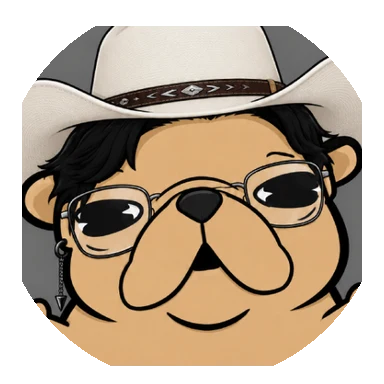
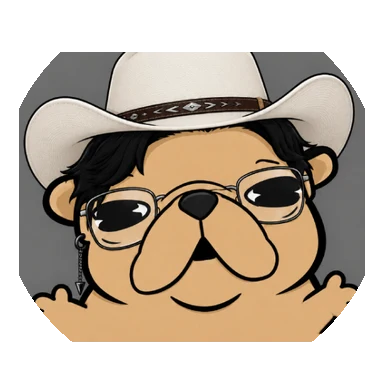
Release Xomacito 3.5 and restore tray launches

diff --git a/src/ui/qml/Main.qml b/src/ui/qml/Main.qml
@@ -54,7 +54,7 @@ ApplicationWindow {
             return
         if (updatePopup.opened || noticePopup.opened || platinumPopup.opened
                 || smoothMotionPopup.opened || pendingSmoothMotionPromo
-                || smoothMotionDelay.running)
+                || smoothMotionDelay.running || catGachaPage.revealOpen)
             return
         socialOnboardingDelay.restart()
     }
@@ -296,7 +296,13 @@ ApplicationWindow {
                 Item { DownloadPage { anchors.fill: parent } }
                 Item { QueuePage { anchors.fill: parent } }
                 Item { ImageStudioPage { anchors.fill: parent } }
-                Item { CatGachaPage { anchors.fill: parent } }
+                Item {
+                    CatGachaPage {
+                        id: catGachaPage
+                        anchors.fill: parent
+                        onRevealFinished: window.tryOpenSocialOnboarding()
+                    }
+                }
                 Item { ScoreboardPage { anchors.fill: parent; onConnectRequested: socialOnboardingPopup.open() } }
                 Item { SettingsPage { anchors.fill: parent } }
 
@@ -858,7 +864,7 @@ ApplicationWindow {
         onTriggered: {
             if (updatePopup.opened || noticePopup.opened || platinumPopup.opened
                     || smoothMotionPopup.opened || window.pendingSmoothMotionPromo
-                    || smoothMotionDelay.running)
+                    || smoothMotionDelay.running || catGachaPage.revealOpen)
                 return
             window.pendingSocialOnboarding = false
             socialOnboardingPopup.open()
@@ -1022,9 +1028,10 @@ ApplicationWindow {
         id: socialOnboardingPopup
         objectName: "socialOnboardingPopup"
         anchors.centerIn: parent
-        width: Math.min(580, window.width - 48)
-        implicitHeight: socialOnboardingContent.implicitHeight + 52
+        width: Math.min(560, window.width - 40)
+        height: Math.min(window.denseWindow ? 400 : 420, window.height - 36)
         modal: true; focus: true; padding: 0
+        clip: true
         closePolicy: Popup.NoAutoClose
         property bool createMode: true
         background: Rectangle {
@@ -1043,33 +1050,96 @@ ApplicationWindow {
         }
         contentItem: ColumnLayout {
             id: socialOnboardingContent
-            x: 26; y: 26; width: socialOnboardingPopup.width - 52; spacing: 15
-            Text { text: "TU ID DE XOMACITO"; color: theme.colors.primary; font.pixelSize: 10; font.weight: Font.Bold; font.letterSpacing: 1.2 }
-            Text { Layout.fillWidth: true; text: socialOnboardingPopup.createMode ? "Entra al scoreboard" : "Volver a tu cuenta"; color: theme.colors.text; font.pixelSize: 23; font.weight: Font.DemiBold; wrapMode: Text.WordWrap }
-            Text { Layout.fillWidth: true; text: "Tu contraseña viaja directamente a Supabase Auth y nunca se guarda en este equipo."; color: theme.colors.textMuted; font.pixelSize: 11; wrapMode: Text.WordWrap }
-            XTextField { id: socialUsername; Layout.fillWidth: true; placeholderText: "ID pública (ej. strike2911)"; enabled: !socialController.state.busy }
-            XTextField { id: socialPassword; Layout.fillWidth: true; placeholderText: "Contraseña (mínimo 8 caracteres)"; echoMode: TextInput.Password; enabled: !socialController.state.busy }
-            Text { Layout.fillWidth: true; visible: socialController.state.error.length > 0; text: socialController.state.error; color: theme.colors.error; font.pixelSize: 11; wrapMode: Text.WordWrap }
-            RowLayout {
+            objectName: "socialOnboardingContent"
+            anchors.fill: parent
+            anchors.margins: window.denseWindow ? 20 : 26
+            spacing: window.denseWindow ? 10 : 12
+
+            Text {
+                text: "TU ID DE XOMACITO"
+                color: theme.colors.primary
+                font.pixelSize: 10
+                font.weight: Font.Bold
+                font.letterSpacing: 1.2
+            }
+            Text {
+                objectName: "socialOnboardingTitle"
                 Layout.fillWidth: true
-                Layout.topMargin: 3
-                spacing: 10
+                text: socialOnboardingPopup.createMode ? "Entra al scoreboard" : "Volver a tu cuenta"
+                color: theme.colors.text
+                font.pixelSize: window.denseWindow ? 21 : 23
+                font.weight: Font.DemiBold
+                wrapMode: Text.WordWrap
+            }
+
+            Rectangle {
+                Layout.fillWidth: true
+                Layout.preferredHeight: window.denseWindow ? 50 : 54
+                radius: 12
+                color: theme.colors.surfaceSoft
+                border.width: 1
+                border.color: theme.colors.border
+                Text {
+                    objectName: "socialOnboardingPrivacy"
+                    anchors.fill: parent
+                    anchors.margins: 11
+                    text: "CUENTA SEGURA  ·  Tu contraseña se envía a Supabase Auth y no se guarda en este equipo."
+                    color: theme.colors.textMuted
+                    font.pixelSize: 10
+                    font.weight: Font.Medium
+                    wrapMode: Text.WordWrap
+                    verticalAlignment: Text.AlignVCenter
+                }
+            }
+
+            XTextField {
+                id: socialUsername
+                objectName: "socialUsernameField"
+                Layout.fillWidth: true
+                Layout.preferredHeight: 46
+                placeholderText: "ID pública (ej. strike2911)"
+                enabled: !socialController.state.busy
+            }
+            XTextField {
+                id: socialPassword
+                objectName: "socialPasswordField"
+                Layout.fillWidth: true
+                Layout.preferredHeight: 46
+                placeholderText: "Contraseña (mínimo 8 caracteres)"
+                echoMode: TextInput.Password
+                enabled: !socialController.state.busy
+            }
+            Text {
+                Layout.fillWidth: true
+                Layout.preferredHeight: visible ? implicitHeight : 0
+                visible: socialController.state.error.length > 0
+                text: socialController.state.error
+                color: theme.colors.error
+                font.pixelSize: 10
+                wrapMode: Text.WordWrap
+                maximumLineCount: 2
+                elide: Text.ElideRight
+            }
+            Item { Layout.fillHeight: true }
+            RowLayout {
+                objectName: "socialOnboardingActions"
+                Layout.fillWidth: true
+                spacing: 8
                 XButton {
-                    Layout.preferredWidth: 132
+                    Layout.fillWidth: true
                     text: socialOnboardingPopup.createMode ? "Ya tengo ID" : "Crear una ID"
                     kind: "ghost"
                     onClicked: socialOnboardingPopup.createMode = !socialOnboardingPopup.createMode
                 }
-                Item { Layout.fillWidth: true }
                 XButton {
-                    Layout.preferredWidth: 112
+                    Layout.fillWidth: true
                     text: "Ahora no"
                     kind: "secondary"
                     enabled: !socialController.state.busy
                     onClicked: { socialController.dismissOnboarding(); socialOnboardingPopup.close() }
                 }
                 XButton {
-                    Layout.preferredWidth: 122
+                    Layout.fillWidth: true
                     text: socialController.state.busy ? "Conectando…" : socialOnboardingPopup.createMode ? "Crear ID" : "Entrar"
                     enabled: !socialController.state.busy && socialUsername.text.length >= 3 && socialPassword.text.length >= 8
                     onClicked: {

diff --git a/src/ui/qml/pages/CatGachaPage.qml b/src/ui/qml/pages/CatGachaPage.qml
@@ -6,6 +6,8 @@ import "../components"
 Item {
     id: root
     property bool dense: height <= 520
+    readonly property bool revealOpen: revealPopup.opened
+    signal revealFinished()
 
     ColumnLayout {
         anchors.fill: parent
@@ -258,6 +260,7 @@ Item {
         focus: true
         padding: 0
         closePolicy: Popup.NoAutoClose
+        onClosed: root.revealFinished()
         property var result: ({})
         property real revealProgress: 1
         readonly property int resultRarity: Math.max(1, Math.min(6, Number(result.rarity || 1)))

diff --git a/src/ui/qml/components/CatAvatar.qml b/src/ui/qml/components/CatAvatar.qml
@@ -78,7 +78,7 @@ Item {
             anchors.fill: parent
             anchors.margins: root.blackbullNoir ? 1 : 3
             source: root.source
-            fillMode: root.blackbullNoir ? Image.PreserveAspectCrop : Image.PreserveAspectFit
+            fillMode: Image.PreserveAspectFit
             mipmap: true
             smooth: true
             sourceSize.width: Math.max(128, width * 2)

diff --git a/tests/test_core.py b/tests/test_core.py
@@ -290,6 +290,17 @@ class XomacitoWrapperTests(unittest.TestCase):
         self.assertIn("PODIO", highlights)
         self.assertTrue(notice["smoothMotionPromotion"])
 
+    def test_release_35_is_the_papu_update(self):
+        notice = release_notice_for_version("v3.5")
+
+        self.assertIsNotNone(notice)
+        self.assertEqual(notice["title"], "Xomacito 3.5")
+        self.assertEqual(notice["subtitle"], "¡THE PAPU UPDATE!!")
+        highlights = " ".join(notice["highlights"]).upper()
+        self.assertIn("FORMULARIO DE ID", highlights)
+        self.assertIn("BLACK BULL", highlights)
+        self.assertTrue(notice["smoothMotionPromotion"])
+
     def test_app_installer_download_checks_size_pe_header_and_sha256(self):
         payload = b"MZ" + (b"xomacito" * 64)
         digest = "sha256:" + hashlib.sha256(payload).hexdigest()
@@ -447,9 +458,13 @@ class XomacitoWrapperTests(unittest.TestCase):
 
         main_source = (ROOT / "main.py").read_text(encoding="utf-8")
         application_source = (ROOT / "src" / "ui" / "application.py").read_text(encoding="utf-8")
+        instance_source = (ROOT / "src" / "core" / "single_instance.py").read_text(encoding="utf-8")
         self.assertIn("SingleInstanceGuard(APP_NAME)", main_source)
         self.assertIn("focus_existing_window(APP_NAME)", main_source)
         self.assertNotIn("xomacito.lock", application_source)
+        self.assertNotIn("IsWindowVisible", instance_source)
+        self.assertIn("user32.ShowWindow(hwnd, SW_SHOW)", instance_source)
+        self.assertIn("user32.BringWindowToTop(hwnd)", instance_source)
 
     def test_instagram_photo_posts_have_an_image_fallback(self):
         class FakeResponse:
@@ -1248,7 +1263,7 @@ class XomacitoWrapperTests(unittest.TestCase):
 
         self.assertIn("XomacitoInstaller.spec", build_script)
         self.assertIn("Xomacito.iss", build_script)
-        self.assertIn("release\\Xomacito-3.4-Setup.exe", build_script)
+        self.assertIn("release\\Xomacito-3.5-Setup.exe", build_script)
         self.assertNotIn("StableInstaller", build_script)
         self.assertNotIn("release\\setup.exe", build_script)
         self.assertIn("AverageStartupSeconds", benchmark_script)

diff --git a/src/core/app_updater.py b/src/core/app_updater.py
@@ -25,6 +25,29 @@ REQUEST_HEADERS = {
 MAX_INSTALLER_SIZE = 2 * 1024 * 1024 * 1024
 UPDATE_PROMPT_NOTES_LIMIT = 1200
 RELEASE_NOTICES = {
+    "3.5": {
+        "eyebrow": "ACTUALIZACIÓN INSTALADA",
+        "title": "Xomacito 3.5",
+        "subtitle": "¡THE PAPU UPDATE!!",
+        "message": (
+            "El acceso a la comunidad ahora llega en el momento correcto y Xomacito vuelve "
+            "a primer plano correctamente cuando permanecía abierto en la bandeja."
+        ),
+        "highlights": [
+            "El formulario de ID mantiene textos, campos y botones dentro de su tarjeta.",
+            "La creación de ID aparece después del anuncio y la recompensa de BLACK BULL.",
+            "Abrir Xomacito desde Inicio recupera la ventana que quedó en segundo plano.",
+            "BLACK BULL conserva el sombrero y queda centrado dentro de su marco mítico.",
+            "El flujo del scoreboard conserva su conexión segura mediante Supabase Auth.",
+        ],
+        "contributors": [
+            "Jorge", "Xomas", "Megas", "Playera", "Mensva", "Zarking", "Spike",
+            "BlackBull", "Eduardito3d", "Gako",
+        ],
+        "closing": "Gracias a la comunidad por seguir puliendo cada rincón de Xomacito.",
+        "platinumCelebration": True,
+        "smoothMotionPromotion": True,
+    },
     "3.4": {
         "eyebrow": "ACTUALIZACIÓN INSTALADA",
         "title": "Xomacito 3.4",

diff --git a/src/core/single_instance.py b/src/core/single_instance.py
@@ -101,7 +101,7 @@ class SingleInstanceGuard:
 
 
 def focus_existing_window(title_prefix: str) -> bool:
-    """Restaura y enfoca la ventana visible cuyo título corresponde a la aplicación."""
+    """Muestra y enfoca la ventana existente, aunque esté oculta en la bandeja."""
     if os.name != "nt":
         return False
 
@@ -115,8 +115,6 @@ def focus_existing_window(title_prefix: str) -> bool:
 
     @enum_callback
     def visit_window(hwnd, _lparam):
-        if not user32.IsWindowVisible(hwnd):
-            return True
         length = user32.GetWindowTextLengthW(hwnd)
         if length <= 0:
             return True
@@ -132,7 +130,12 @@ def focus_existing_window(title_prefix: str) -> bool:
         return False
 
     hwnd = matches[0]
+    SW_SHOW = 5
     SW_RESTORE = 9
+    # Una ventana enviada a la bandeja está oculta, no minimizada. Hay que
+    # mostrarla antes de restaurarla para que un segundo inicio la recupere.
+    user32.ShowWindow(hwnd, SW_SHOW)
     user32.ShowWindow(hwnd, SW_RESTORE)
+    user32.BringWindowToTop(hwnd)
     user32.SetForegroundWindow(hwnd)
     return True

diff --git a/scripts/import_cat_collection.py b/scripts/import_cat_collection.py
@@ -43,16 +43,15 @@ def prepare_avatar(image: Image.Image, normalized_name: str) -> Image.Image:
     if normalized_name == "gato black bull":
         # El sombrero es parte esencial de la silueta de BLACK BULL. Un recorte
         # a sangre lo pegaba al borde superior y desplazaba visualmente el rostro.
-        inset = 22
-        portrait_size = AVATAR_SIZE - (inset * 2)
-        portrait = ImageOps.fit(
+        portrait = ImageOps.contain(
             image,
-            (portrait_size, portrait_size),
+            (346, 326),
             method=Image.Resampling.LANCZOS,
-            centering=(0.5, 0.5),
         )
         framed = Image.new("RGBA", (AVATAR_SIZE, AVATAR_SIZE), (0, 0, 0, 0))
-        framed.alpha_composite(portrait, (inset, inset + 4))
+        x = (AVATAR_SIZE - portrait.width) // 2
+        y = (AVATAR_SIZE - portrait.height) // 2 + 5
+        framed.alpha_composite(portrait, (x, y))
         image = framed
     else:
         image = ImageOps.fit(

diff --git a/main.py b/main.py
@@ -7,7 +7,7 @@ from pathlib import Path
 
 
 APP_NAME = "Xomacito"
-APP_VERSION = "3.4"
+APP_VERSION = "3.5"
 
 FROZEN = bool(getattr(sys, "frozen", False))
 PROJECT_ROOT = Path(sys.executable).resolve().parent if FROZEN else Path(__file__).resolve().parent
